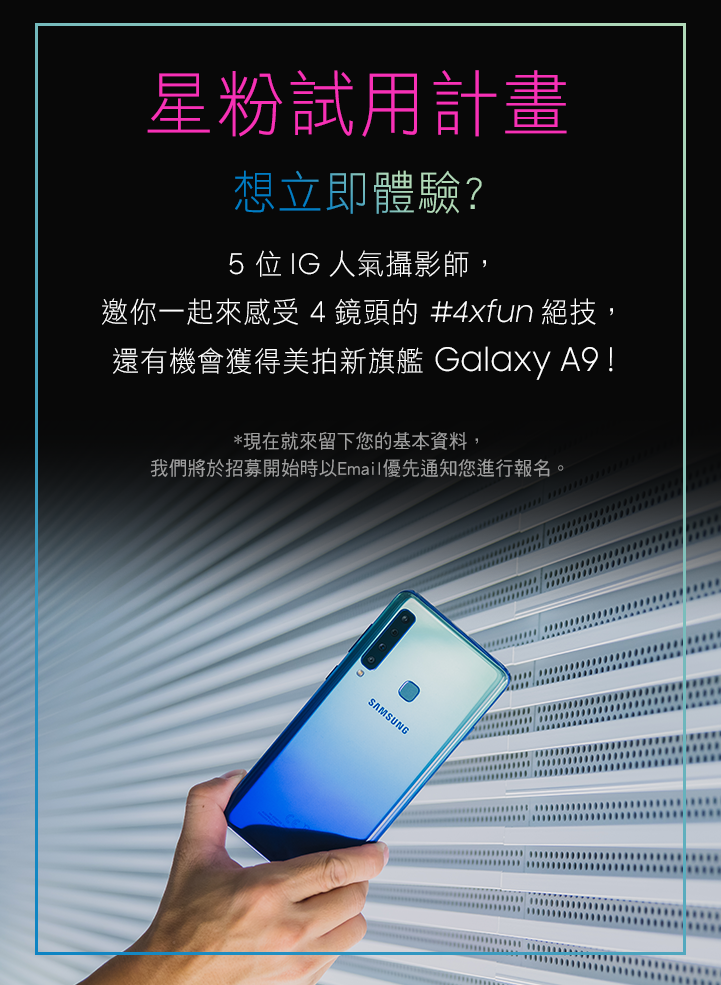
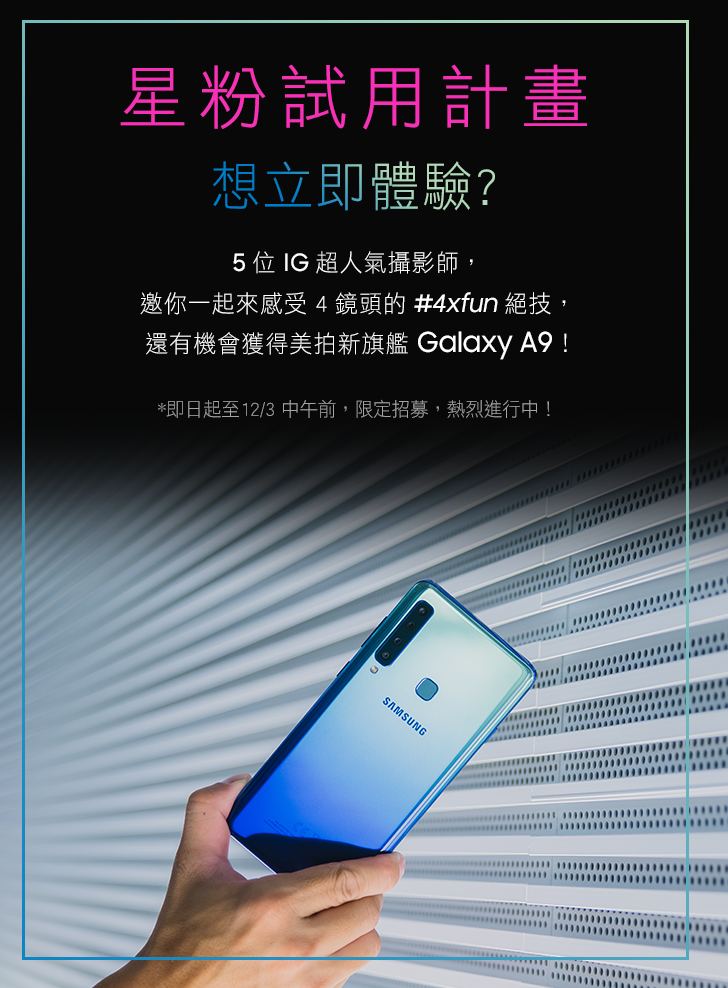
update

diff --git a/index.html b/index.html
@@ -328,6 +328,12 @@ html,body,div,span,applet,object,iframe,h1,h2,h3,h4,h5,h6,p,blockquote,pre,a,abb
                                         Galaxy A7 2018 上手評測
                                         </div>
                                 </div>
+                                <div class="vmBtn vBtn" data-vid='=_PDshbFITng' data-omni-type="microsite" data-omni ="campaign:galaxy-a9-2018-promotion:videoBtn-man02">
+                                    <div class="s_pic" style="background-image: url('./images/vb6.png?$ORIGIN_PNG$');"></div>
+                                    <div class="sTxt">【開箱 X 科技狗】<br>Galaxy A9 開箱體驗 | 全球首款 4 鏡頭手機
+
+                                        </div>
+                                </div>
                             </div>
 
                         </div>
@@ -483,7 +489,7 @@ html,body,div,span,applet,object,iframe,h1,h2,h3,h4,h5,h6,p,blockquote,pre,a,abb
                         <img src="./images/event_m.png" alt="" class='fullImg mt-3 phoneShow'>
                     </a>
                     <div class="ta_c mt-3">
-                        <a  data-omni-type="microsite" data-omni ="campaign:galaxy-a9-2018-promotion:galaxy-studio" href="https://goo.gl/forms/Bcp0n5aMYIDurAAi2" target='_blank' class="s_btn bBtn">搶得先機</a>
+                        <a  data-omni-type="microsite" data-omni ="campaign:galaxy-a9-2018-promotion:galaxy-studio" href="https://docs.google.com/forms/d/e/1FAIpQLSfEZ5V8mZnT_GTaY0HsRDwdVeEFIiPYMavuk4S0UX7tX2ZYNw/viewform" target='_blank' class="s_btn bBtn">即刻報名</a>
                     </div>
                 </div>
 
@@ -527,22 +533,35 @@ html,body,div,span,applet,object,iframe,h1,h2,h3,h4,h5,h6,p,blockquote,pre,a,abb
                                 </div>
                             </div>
                             <div class="card">
-                                    <div class="pic" style='background-image: url("images/b03.jpg");'></div>
-                                    <div class="txtWrap">
-                                        <div class="txt">
-                                            <div class="fz2 fwb">點子生活 Kisplay
+                                <div class="pic" style='background-image: url("images/b03.jpg");'></div>
+                                <div class="txtWrap">
+                                    <div class="txt">
+                                        <div class="fz2 fwb">點子生活 Kisplay
 
-                                                </div>
-                                            <div class="fz3 checkHeight">全球首款四鏡頭美拍新機 Galaxy A9 動手玩
+                                            </div>
+                                        <div class="fz3 checkHeight">全球首款四鏡頭美拍新機 Galaxy A9 動手玩
 
-                                                </div>
-                                            <div class="fz4 mt-1 hideContent">
-                                                <span class='ct'>在「4x fun」發表會中推出了全球首支配備四鏡頭主相機的智慧型手機 Galaxy A9，正式宣告四鏡頭時代來臨。有別於過去的 Galaxy A 系列手機，這次三星率先將四鏡頭技術應用於 Galaxy A 系列手機中，讓 Galaxy A9 成為全球首款配有四鏡頭相機的手機，也為中階手機使用者帶來更不同的使用體驗</span>
-                                                <a href="https://www.samsung.com/tw/news/product/galaxy-a9-blogger-saydigi/" target='_blank' class='moreBtn' data-omni-type="microsite" data-omni="campaign:galaxy-a9-2018-promotion:blogger-moreBtn03"> ...more</a></div>
-                                        </div>
-                                        <div class="s_btn jBtn" data-id='retail' data-omni-type="microsite" data-omni="campaign:galaxy-a9-2018-promotion:blogger:buy-now03">立即購買</div>
+                                            </div>
+                                        <div class="fz4 mt-1 hideContent">
+                                            <span class='ct'>在「4x fun」發表會中推出了全球首支配備四鏡頭主相機的智慧型手機 Galaxy A9，正式宣告四鏡頭時代來臨。有別於過去的 Galaxy A 系列手機，這次三星率先將四鏡頭技術應用於 Galaxy A 系列手機中，讓 Galaxy A9 成為全球首款配有四鏡頭相機的手機，也為中階手機使用者帶來更不同的使用體驗</span>
+                                            <a href="https://www.samsung.com/tw/news/product/galaxy-a9-blogger-saydigi/" target='_blank' class='moreBtn' data-omni-type="microsite" data-omni="campaign:galaxy-a9-2018-promotion:blogger-moreBtn03"> ...more</a></div>
                                     </div>
+                                    <div class="s_btn jBtn" data-id='retail' data-omni-type="microsite" data-omni="campaign:galaxy-a9-2018-promotion:blogger:buy-now03">立即購買</div>
                                 </div>
+                            </div>
+                            <div class="card">
+                                <div class="pic" style='background-image: url("images/b04.jpg");'></div>
+                                <div class="txtWrap">
+                                    <div class="txt">
+                                        <div class="fz2 fwb">電腦王阿達</div>
+                                        <div class="fz3 checkHeight">中階新機 Galaxy A9 上手實測、實拍，四鏡頭比你想的更厲害</div>
+                                        <div class="fz4 mt-1 hideContent">
+                                            <span class='ct'>全球首款 4 鏡頭智慧型手機 Galaxy A9 的出現可以說是讓人大吃一驚，雖然鏡頭的增加與拍照功能的多樣化似乎是一種必然的趨勢，當真的親眼所見時卻還是讓人不免驚嘆，對於喜歡攝影拍照的人來說，四個各司其職的鏡頭能夠為你帶來更多元的創作方式，玩轉你的創意，用四顆鏡頭的視角發現生活中無所不在的美麗!</span>
+                                            <a href="https://www.samsung.com/tw/news/product/galaxy-a9-blogger-kocpc/" target='_blank' class='moreBtn' data-omni-type="microsite" data-omni="campaign:galaxy-a9-2018-promotion:blogger-moreBtn04"> ...more</a></div>
+                                    </div>
+                                    <div class="s_btn jBtn" data-id='retail' data-omni-type="microsite" data-omni="campaign:galaxy-a9-2018-promotion:blogger:buy-now03">立即購買</div>
+                                </div>
+                            </div>
                     </div>
                     <div class="mt-5  cards mediaCards cards-slider hide">
                         <div class="card">
@@ -622,27 +641,28 @@ html,body,div,span,applet,object,iframe,h1,h2,h3,h4,h5,h6,p,blockquote,pre,a,abb
                         <a onclick='tracking_shop();' data-omni-type="microsite" data-omni="campaign:galaxy-a9-2018-promotion:retail:buy_samsung-shop"  href="https://shop.samsung.com/tw/mobile-a/" class="lbtn bls fb-track" target='_blank'>三星商城<i class="arr"></i></a>
                     </div>
                     <div class="s_shops">
-                        <a onclick='tracking_shop();' data-omni-type="microsite" data-omni="campaign:galaxy-a9-2018-promotion:retail:buy_cht"  href="https://www.cht.com.tw/home/Campaign/a7?utm_source=samsung.com&utm_medium=referral&utm_campaign=a7" target='_blank' class="s_shopBtn fb-track ss1"></a>
-                        <a onclick='tracking_shop();' data-omni-type="microsite" data-omni="campaign:galaxy-a9-2018-promotion:retail:buy_taiwanmobile"  href="https://telecom.taiwanmobile.com/emyfone/action/shoppingFlowV2.do?method=showShoppingFlow&inputMobileKeyword=A7" target='_blank' class="s_shopBtn fb-track ss2"></a>
-                        <a onclick='tracking_shop();' data-omni-type="microsite" data-omni="campaign:galaxy-a9-2018-promotion:retail:buy_fareastone"  href="http://www.fetnet.net/estore/phone/samsung-galaxy-a7-2018" target='_blank' class="s_shopBtn fb-track ss3"></a>
+                        <a onclick='tracking_shop();' data-omni-type="microsite" data-omni="campaign:galaxy-a9-2018-promotion:retail:buy_cht"  href="https://www.cht.com.tw/home/Campaign/a7?utm_source=samsung.com&utm_medium=referral&utm_campaign=a7&utm_content=website" target='_blank' class="s_shopBtn fb-track ss1"></a>
+                        <a onclick='tracking_shop();' data-omni-type="microsite" data-omni="campaign:galaxy-a9-2018-promotion:retail:buy_taiwanmobile"  href="https://telecom.taiwanmobile.com/emyfone/action/shoppingFlowV2.do?method=showShoppingFlow&inputMobileKeyword=A9" target='_blank' class="s_shopBtn fb-track ss2"></a>
+                        <a onclick='tracking_shop();' data-omni-type="microsite" data-omni="campaign:galaxy-a9-2018-promotion:retail:buy_fareastone"  href="https://www.fetnet.net/estore/phone/samsung-galaxy-a9-2018" target='_blank' class="s_shopBtn fb-track ss3"></a>
                         <a onclick='tracking_shop();' data-omni-type="microsite" style='cursor:context-menu;' data-omni="campaign:galaxy-a9-2018-promotion:retail:buy_gt4g"  href="javascript:void(0);" target='_blank' target='_blank' class="s_shopBtn fb-track ss4"></a>
-                        <a onclick='tracking_shop();' data-omni-type="microsite" style='cursor:context-menu;' data-omni="campaign:galaxy-a9-2018-promotion:retail:buy_t-star"  href="javascript:void(0);" target='_blank' class="s_shopBtn fb-track ss5"></a>
+                        <a onclick='tracking_shop();' data-omni-type="microsite" style='cursor:context-menu;' data-omni="campaign:galaxy-a9-2018-promotion:retail:buy_t-star"  href="https://shop.tstartel.com/detail?p=11514&pkg=" target='_blank' class="s_shopBtn fb-track ss5"></a>
                         <a onclick='tracking_shop();' data-omni-type="microsite" data-omni="campaign:galaxy-a9-2018-promotion:retail:buy_senaonline"  href="https://online.senao.com.tw/Mart/1153731" target='_blank' class="s_shopBtn fb-track ss6"></a>
-                        <a onclick='tracking_shop();' data-omni-type="microsite" data-omni="campaign:galaxy-a9-2018-promotion:retail:buy_myfone"  href=" https://www.myfone.com.tw/buy/cat/31430" target='_blank' class="s_shopBtn fb-track ss7"></a>
-                        <a onclick='tracking_shop();' data-omni-type="microsite" data-omni="campaign:galaxy-a9-2018-promotion:retail:buy_friday"  href="https://shopping.friday.tw/1/1/3/121/36824/401483.html" target='_blank' class="s_shopBtn fb-track ss8"></a>
-                        <a onclick='tracking_shop();' data-omni-type="microsite" data-omni="campaign:galaxy-a9-2018-promotion:retail:buy_pchome24"  href="https://24h.pchome.com.tw/store/DYAL7T" target='_blank' class="s_shopBtn fb-track ss9"></a>
+                        <a onclick='tracking_shop();' data-omni-type="microsite" data-omni="campaign:galaxy-a9-2018-promotion:retail:buy_myfone"  href=" https://www.myfone.com.tw/buy/cat/31526"target='_blank' class="s_shopBtn fb-track ss7 phoneHide"></a>
+                        <a onclick='tracking_shop();' data-omni-type="microsite" data-omni="campaign:galaxy-a9-2018-promotion:retail:buy_myfone"  href=" https://www.myfone.com.tw/mbuy/cat/31526"target='_blank' class="s_shopBtn fb-track ss7 phoneShow"></a>
+                        <a onclick='tracking_shop();' data-omni-type="microsite" data-omni="campaign:galaxy-a9-2018-promotion:retail:buy_friday"  href="https://shopping.friday.tw/1/1/3/121/363922/372824.html" target='_blank' class="s_shopBtn fb-track ss8"></a>
+                        <a onclick='tracking_shop();' data-omni-type="microsite" data-omni="campaign:galaxy-a9-2018-promotion:retail:buy_pchome24"  href="https://24h.pchome.com.tw/store/DYAL7V" target='_blank' class="s_shopBtn fb-track ss9"></a>
                         <a onclick='tracking_shop();' data-omni-type="microsite" data-omni="campaign:galaxy-a9-2018-promotion:retail:buy_yahoo"  href="https://tw.buy.yahoo.com/?catitemid=62566" target='_blank' class="s_shopBtn fb-track ss10"></a>
                         <a onclick='tracking_shop();' data-omni-type="microsite" data-omni="campaign:galaxy-a9-2018-promotion:retail:buy_momo"  href="https://www.momoshop.com.tw/category/DgrpCategory.jsp?d_code=1912900426&p_orderType=1" target='_blank' class="s_shopBtn fb-track ss11"></a>
-                        <a onclick='tracking_shop();' data-omni-type="microsite" data-omni="campaign:galaxy-a9-2018-promotion:retail:buy_ehs"   href="https://www.etmall.com.tw/Samsung%E4%B8%89%E6%98%9FA-%E7%B3%BB%E5%88%97-Samsung%E4%B8%89%E6%98%9F%E6%89%8B%E6%A9%9F/c3/107934" target='_blank' class="s_shopBtn fb-track ss12"></a>
-                        <a onclick='tracking_shop();' data-omni-type="microsite" data-omni="campaign:galaxy-a9-2018-promotion:retail:buy_shopee"  href="https://shopee.tw/samsungtw" target='_blank' class="s_shopBtn fb-track ss13"></a>
-                        <a onclick='tracking_shop();' data-omni-type="microsite" data-omni="campaign:galaxy-a9-2018-promotion:retail:buy_jyes"  href="http://www.jyes.com.tw/product.php?act=view&id=275" target='_blank' class="s_shopBtn fb-track ss14"></a>
+                        <a onclick='tracking_shop();' data-omni-type="microsite" data-omni="campaign:galaxy-a9-2018-promotion:retail:buy_ehs"   href="https://www.etmall.com.tw/c3/107934" target='_blank' class="s_shopBtn fb-track ss12"></a>
+                        <a onclick='tracking_shop();' data-omni-type="microsite" data-omni="campaign:galaxy-a9-2018-promotion:retail:buy_shopee"  href="https://shopee.tw/product/40469232/1658636409/" target='_blank' class="s_shopBtn fb-track ss13"></a>
+                        <a onclick='tracking_shop();' data-omni-type="microsite" data-omni="campaign:galaxy-a9-2018-promotion:retail:buy_jyes"  href="www.jyes.com.tw" target='_blank' class="s_shopBtn fb-track ss14"></a>
                         <a onclick='tracking_shop();' data-omni-type="microsite" data-omni="campaign:galaxy-a9-2018-promotion:retail:buy_others"  href="//images.samsung.com/is/content/samsung/p5/tw/campaign/galaxy-a9-2018-promotion/GalaxyA7retailList.pdf" target='_blank' class="s_shopBtn fb-track ss15"></a>
                         <div class="s_shopBtn"></div>
                         <div class="s_shopBtn"></div>
                         <div class="s_shopBtn"></div>
                         <div class="s_shopBtn"></div>
                     </div>
-                    <div class="gTxt ta_c fz4 mt-3">*Galaxy A9 預計12/1正式上市，各通路預購及販售時間，產品規格及顏色依各通路公告為準</div>
+                    <div class="gTxt ta_c fz4 mt-3">＊產品規格及顏色依各通路公告為準</div>
                 </div>
 
             </div>
